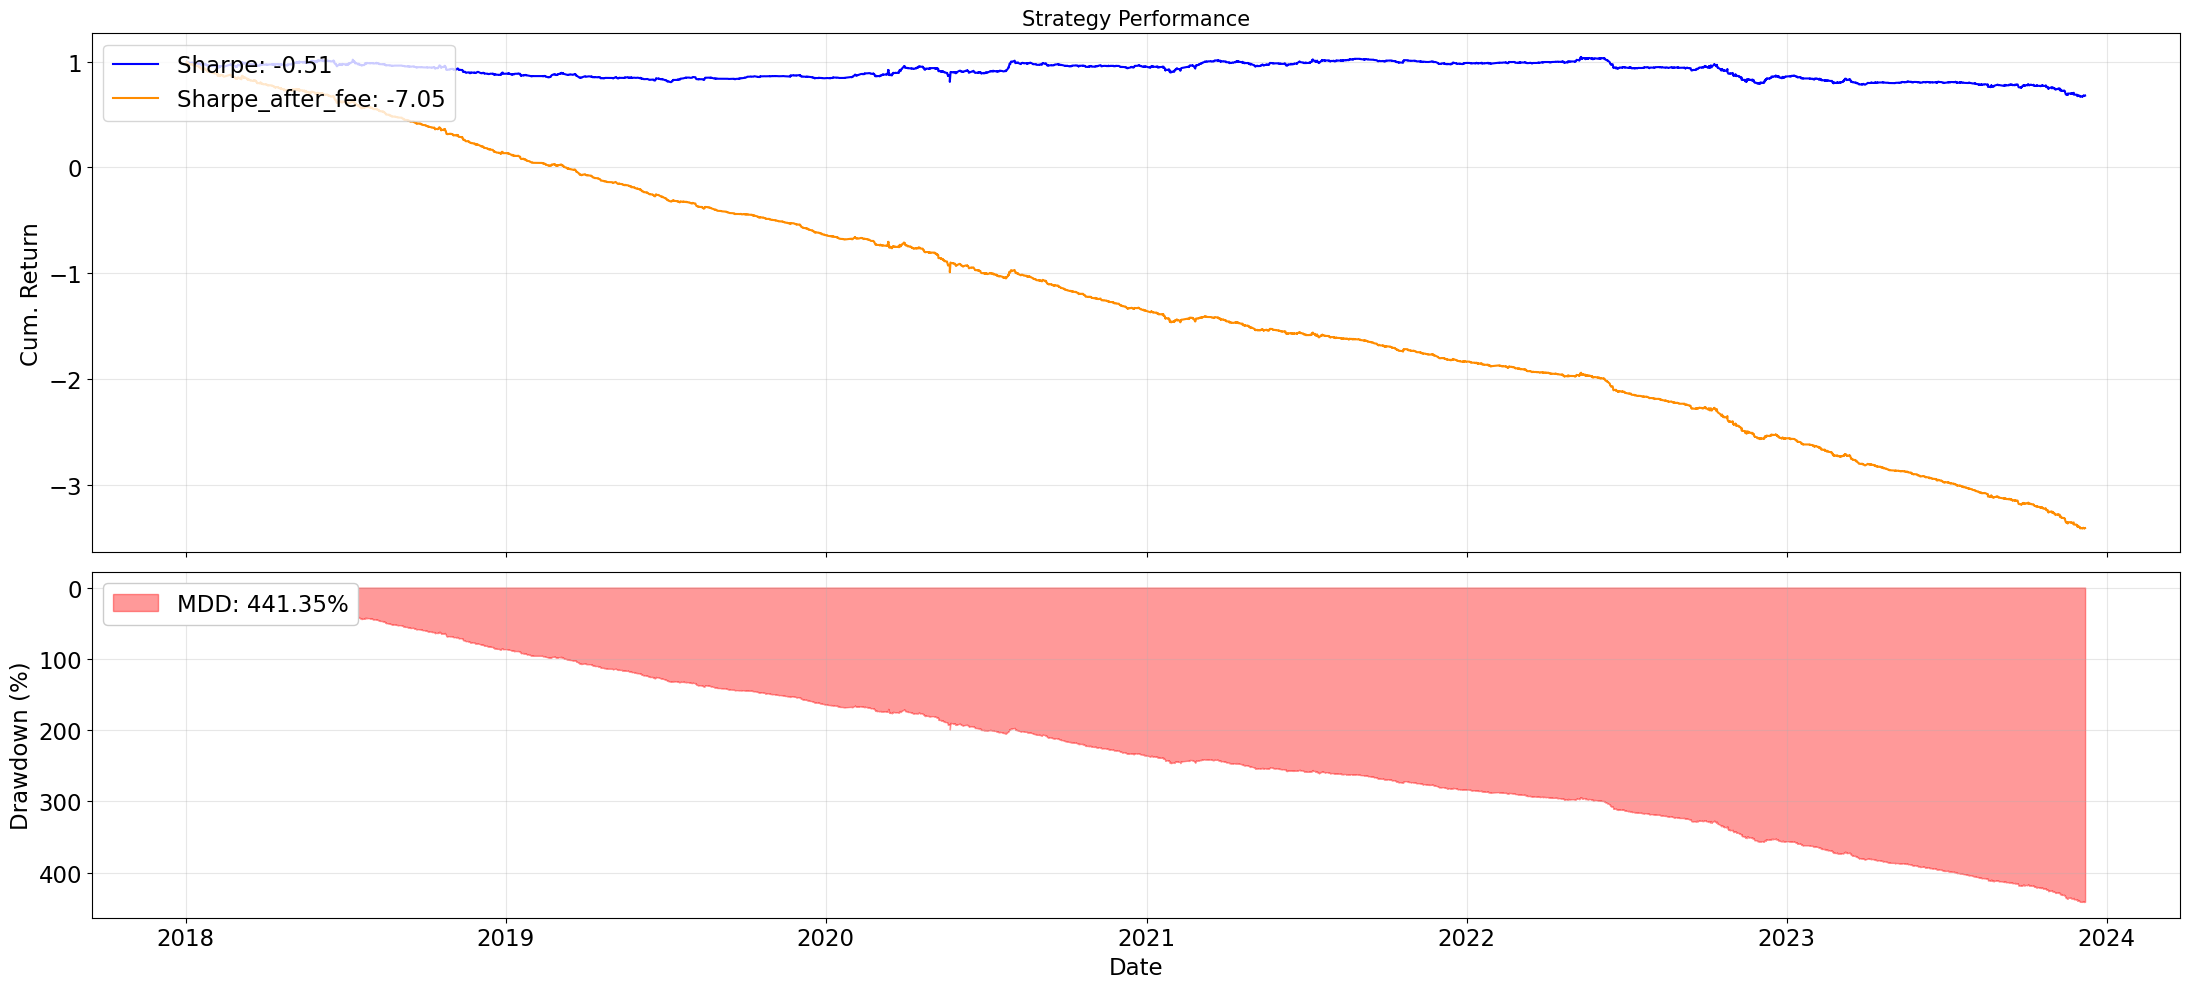
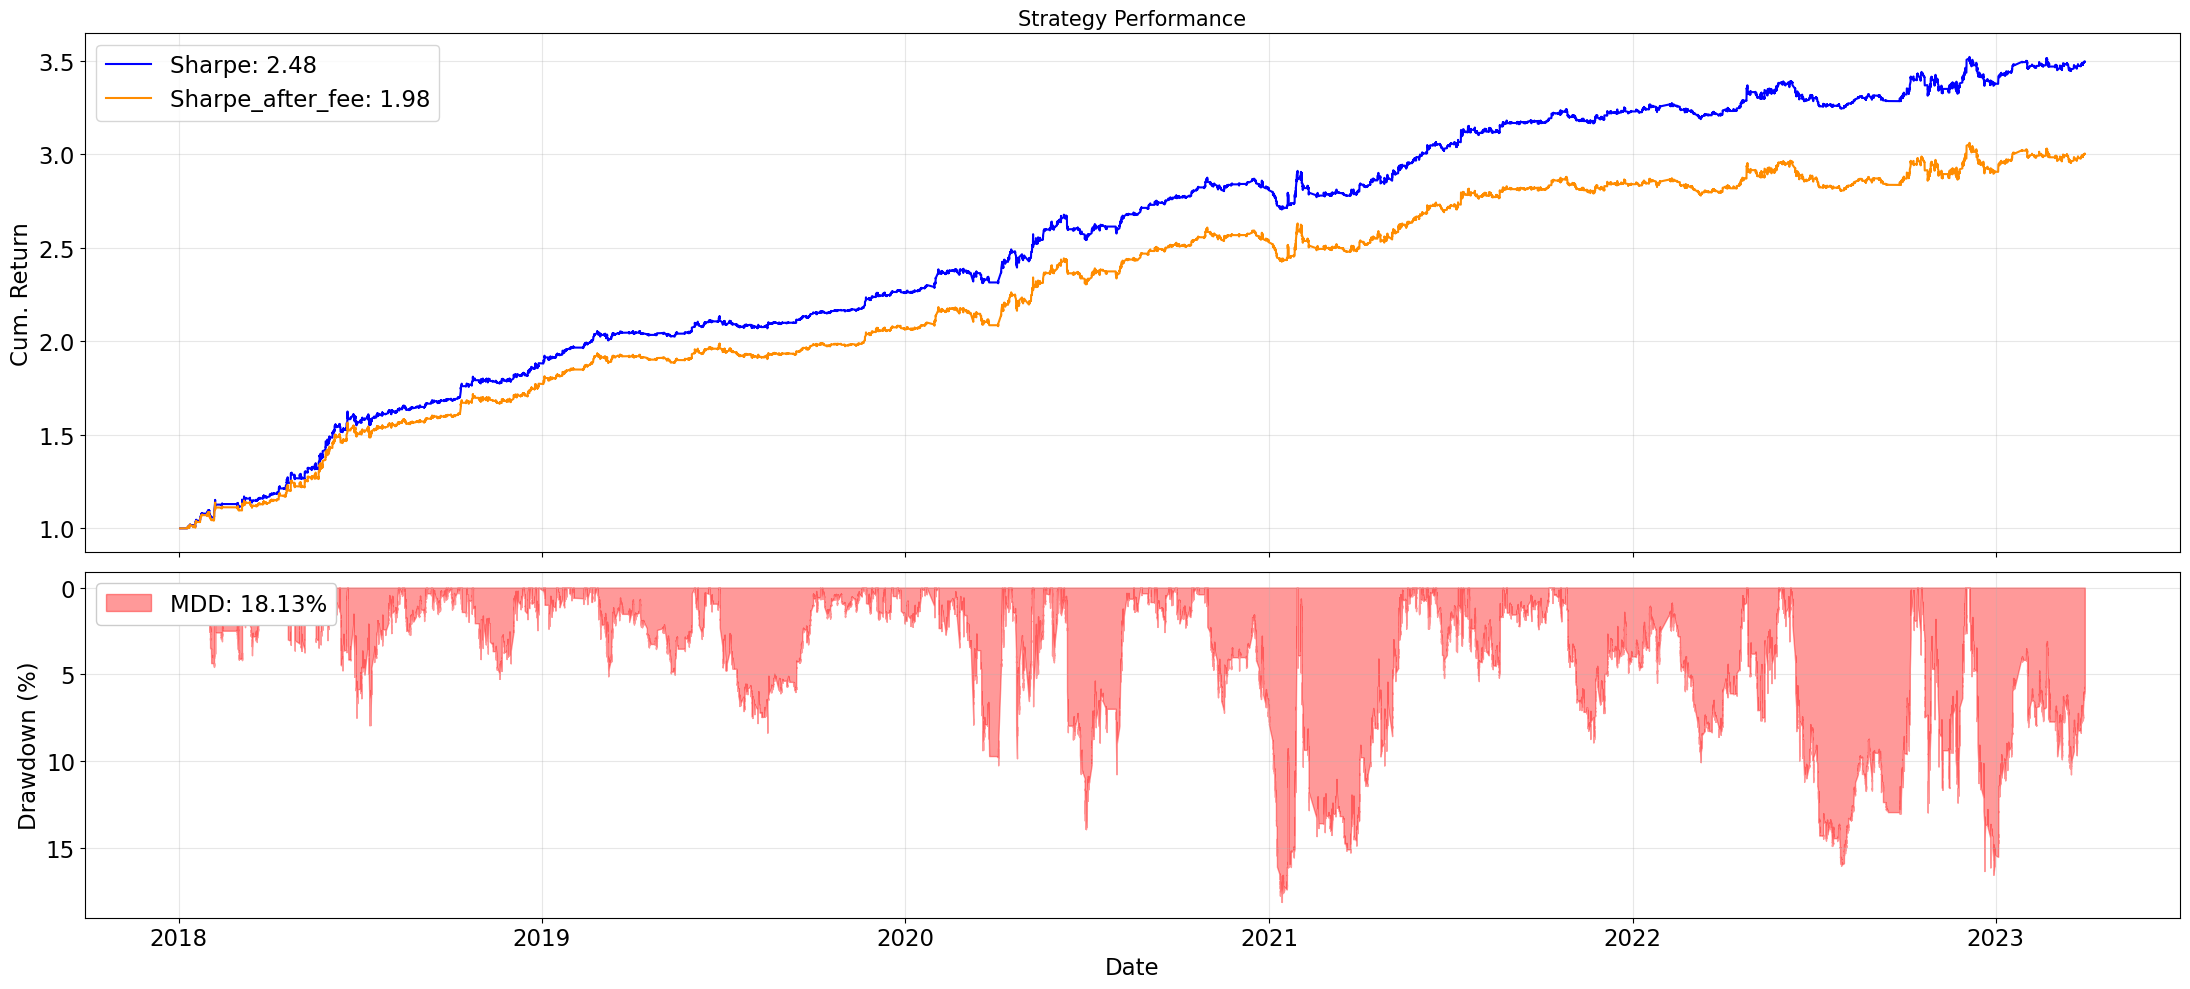
update: new img and instruction

diff --git a/README.md b/README.md
@@ -15,7 +15,8 @@
 ## 📌 Introduction
 
 **VNMiniQuant** is a quant research workspace designed to help individual investors/traders develop and backtest their own alphas.
-Develop your own alpha and add a config file into designated folder, then run the exe.ipynb. Holistic backtest from financial to statistical would be ready!
+The tool would be especially helpful for Vietnam Stock, Vietnam Future and Crypto.
+Enjoy!
 
 ---
 
@@ -56,33 +57,36 @@ pip install -r requirements.txt
 - For an example, check out sample ```MyAlphaCfg.json```.
 
 #### Step 3: Run the alpha
-- Go into Research_Space.ipynb and follow the process. Enjoy!
+- Go into Research_Space.ipynb and follow the process.
+- For most recent updates, check out ```UPDATE_LOG.md```
 
 
 ### OUTPUT
 
 ```
- =========== Financial Backtest Vietnam Future ==========
+========== Financial Backtest Vietnam Future ==========
+ 
+IN SAMPLE PERFORMANCE
 
     Initial capital: 260,000,000.00
-     Ending capital: -886,495,789.01
-             Sharpe: -7.05
-            Sortino: -9.45
-             Calmar: -0.14
-                MDD: 1,147,499,362.52 (441.35%); Time: 2018-01-02 09:00:00 -> 2023-12-06 14:10:00
-       Total Profit: -1,146,495,789.01
-   Margin per Trade: -4.03 bps
-       Total Return: -371.56%
- Mean Annual Return: -63.09%
-Comp. Annual Return: nan%
-       Hitrate Long: 4.87%
-      Hitrate Short: 8.20%
-      Total Hitrate: 6.82%
-        Longest Win: 7 days
-       Longest Loss: 24 days
-      Trade per Day: 3.55
-        Long Trades: 2255
-       Short Trades: 3017
+     Ending capital: 780,677,560.41
+             Sharpe: 1.98
+            Sortino: 2.92
+             Calmar: 1.91
+                MDD: 47,129,011.34 (18.13%); Time: 2020-10-30 14:00:00 -> 2021-01-13 11:00:00
+       Total Profit: 520,677,560.41
+   Margin per Trade: 14.59 bps
+       Total Return: 180.32%
+ Avg. Annual Return: 34.69%
+Comp. Annual Return: 21.93%
+       Hitrate Long: 47.30%
+      Hitrate Short: 46.87%
+      Total Hitrate: 47.16%
+        Longest Win: 12 days
+       Longest Loss: 11 days
+      Trade per Day: 0.43
+        Long Trades: 287
+       Short Trades: 275
 ```
 ![alt text](_img/image.png)
 
